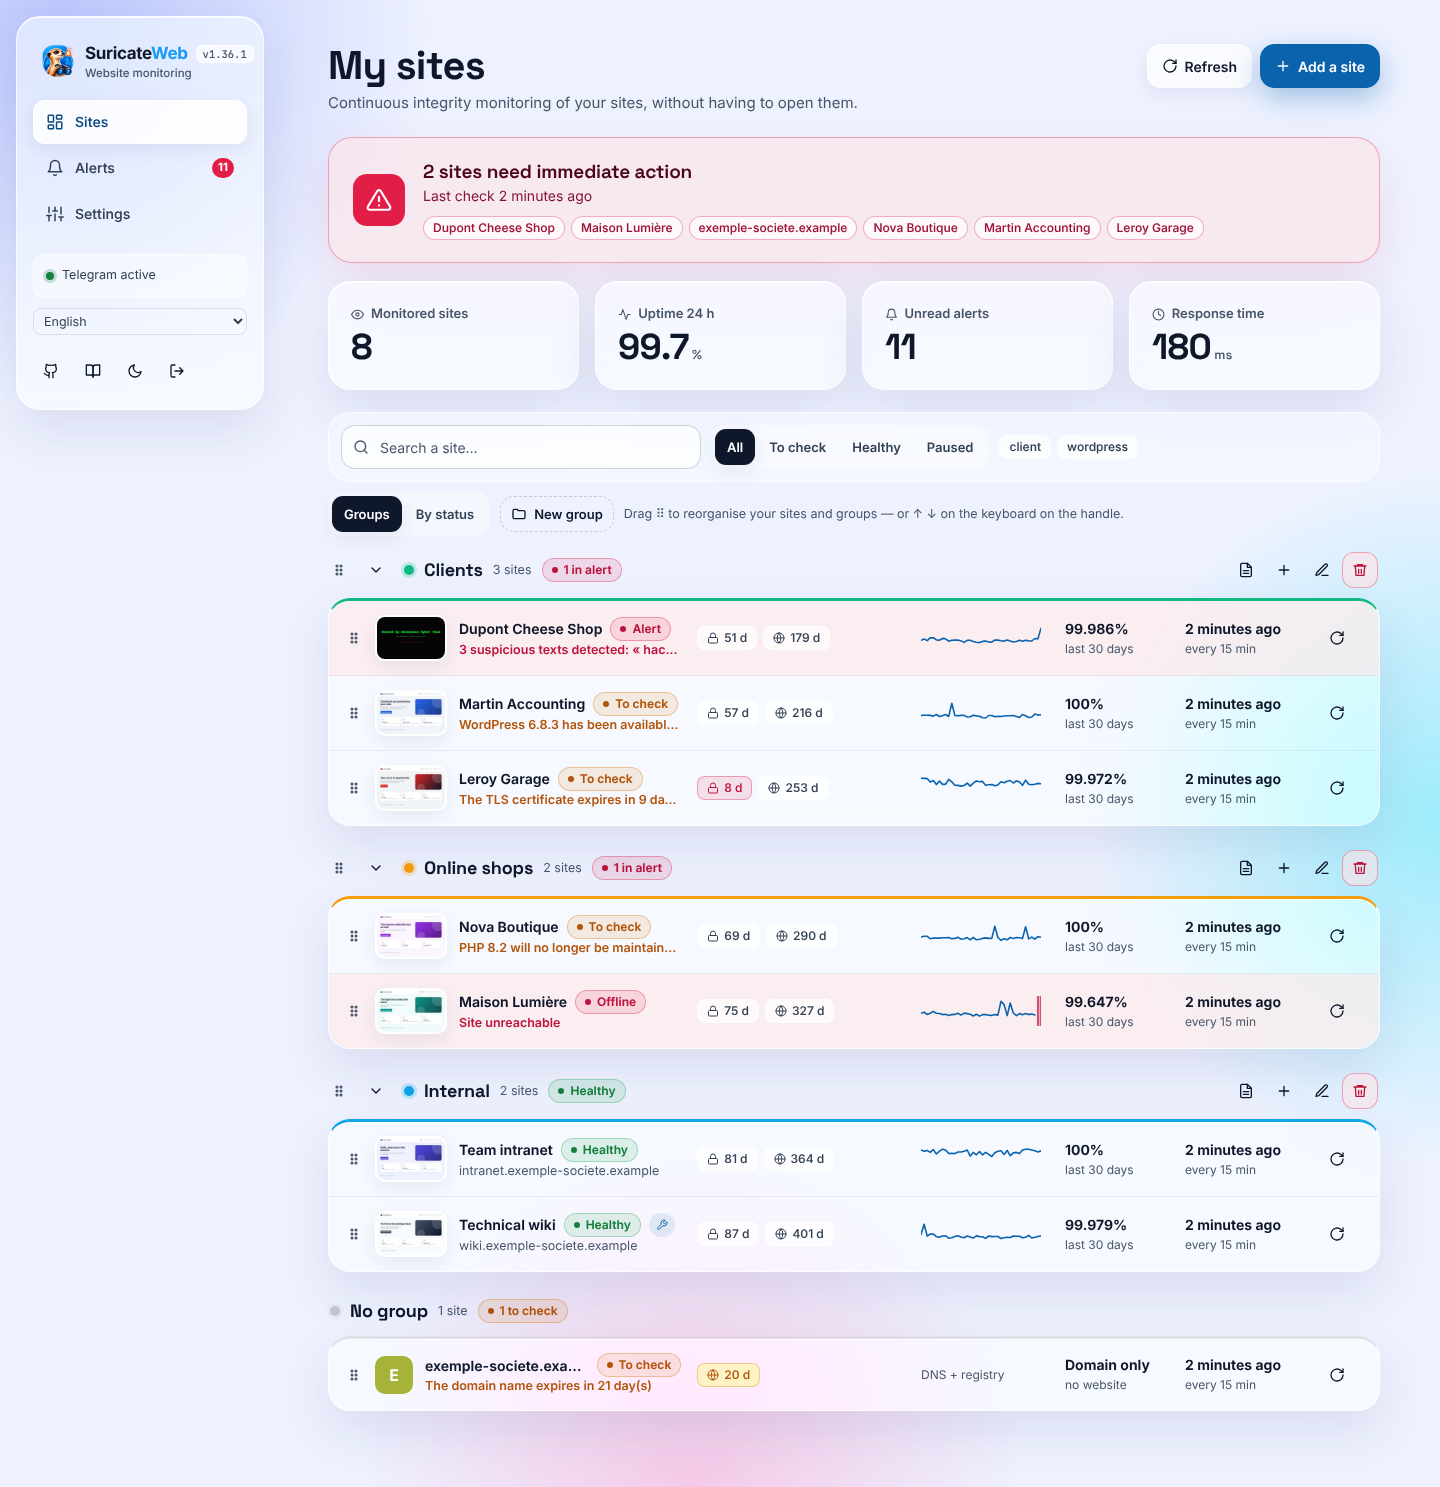
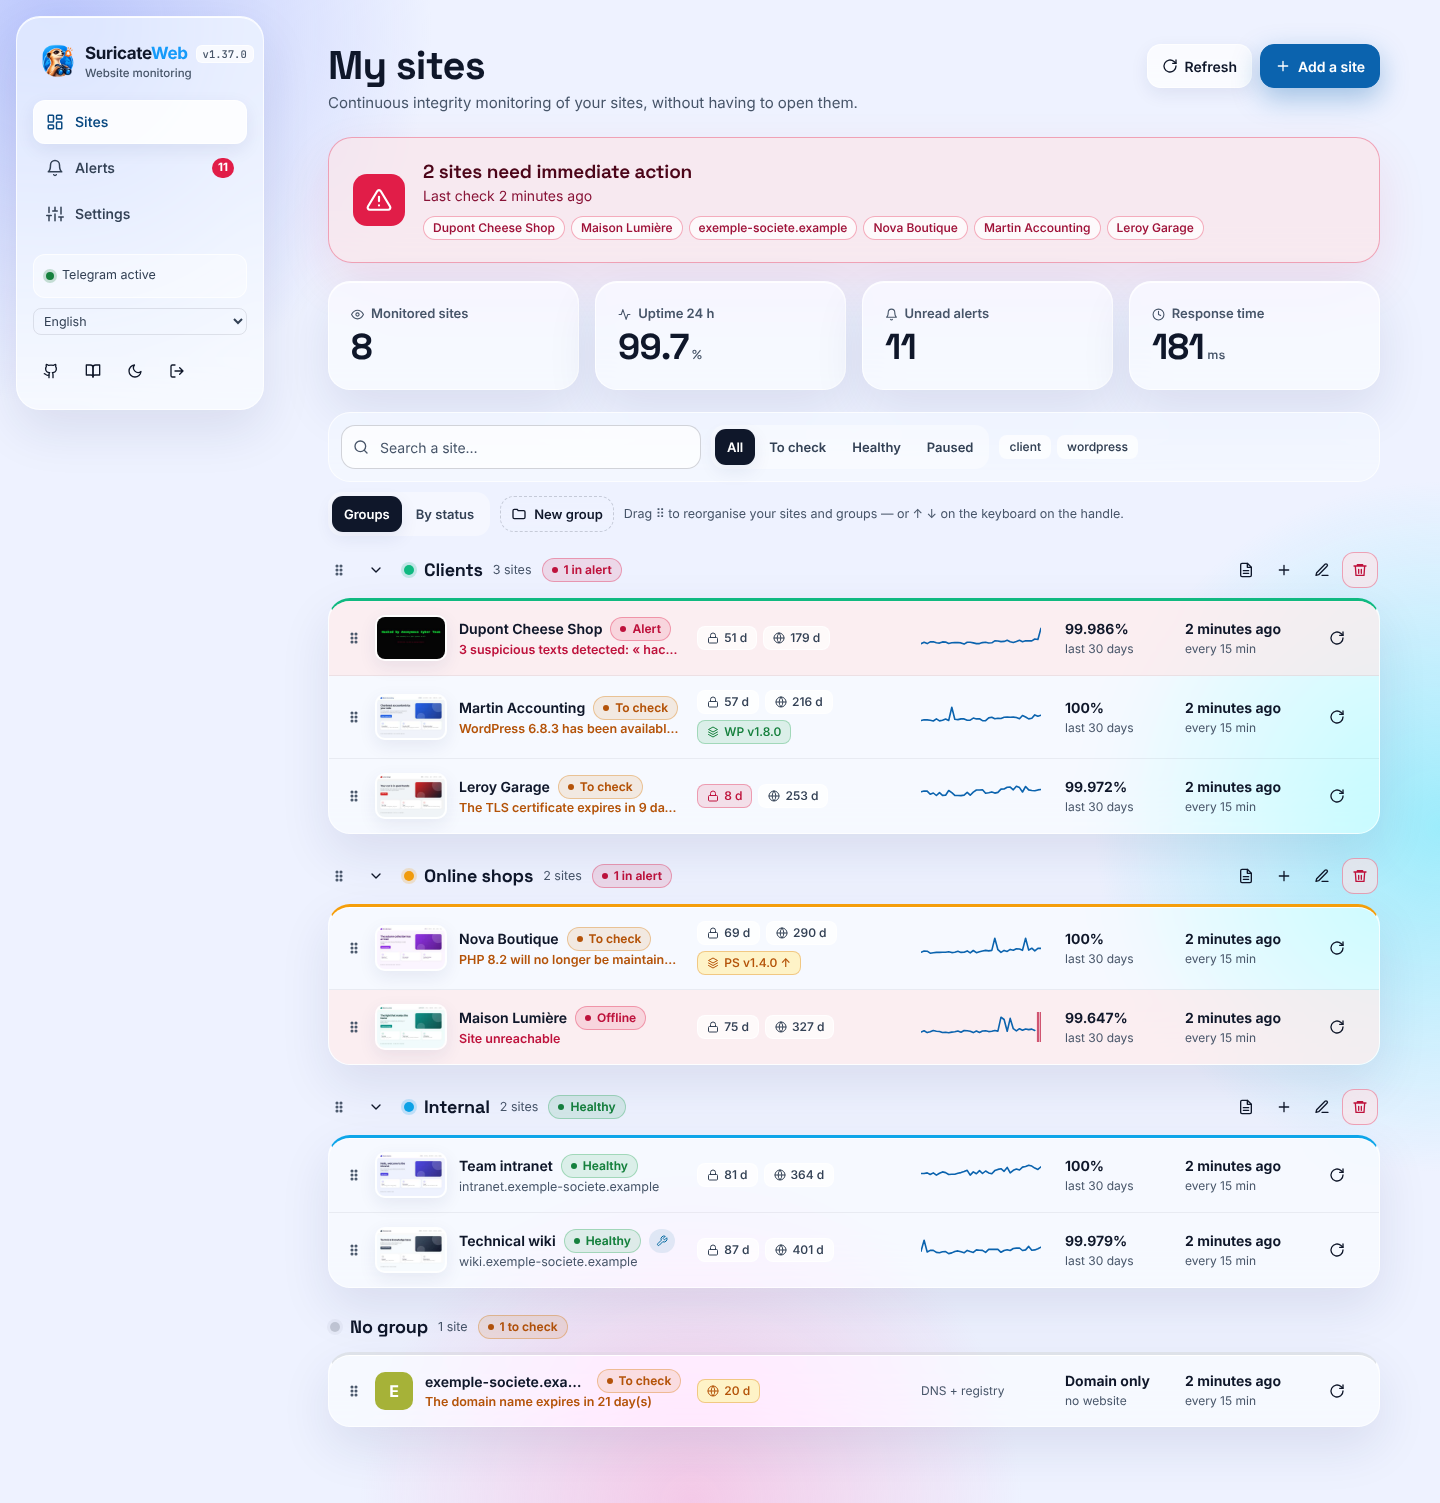
Liste des sites : indicateur « CMS connecté » avec la version du plugin installé
Pastille WP / PS (verte : connecté et à jour, orange : plugin à mettre à jour, rouge : relevé en échec, grise : en attente),
version lue dans le relevé (sans mettre à jour les plugins), comparée à celle livrée ; icône seule sur écran étroit ; API : cmsLink.

Claude-Session: https://claude.ai/code/session_01JAuNUWy4pp1o3tPaqFP6vj

diff --git a/public/app.js b/public/app.js
@@ -841,10 +841,45 @@ function signalChips(w) {
     const loud = w.incidents.some((i) => i.key === 'rdap_expiring' && !i.acked);
     chips.push(h('span', { class: `chip ${loud ? (d < 7 ? 'crit' : d < 30 ? 'warn' : '') : ''}`, title: tr('Nom de domaine valide jusqu\'au {dday}', { dday: dday(w.domainExpires) }) }, ic('globe'), d < 0 ? tr('expiré') : `${d} ${DAYU}`));
   }
+  const cms = cmsChip(w);
+  if (cms) chips.push(cms);
   return chips;
 }
 
 /** opts.handle : poignée de glisser-déposer · opts.chip : affiche le groupe (vue « Par état », où les groupes ne sont pas visibles). */
+/**
+ * Lien avec le CMS d'un site (WordPress « WP » / PrestaShop « PS »), pour la liste : le site est-il relié à son plugin, avec la version du plugin installé.
+ * Vert : connecté et à jour · orange : connecté mais le plugin installé est plus ancien que celui qu'on propose · rouge : le dernier relevé a échoué ·
+ * gris : aucun relevé pour le moment. null pour un site sans CMS.
+ */
+function cmsState(w) {
+  const l = w.cmsLink;
+  if (!l) return null;
+  const kind = l.type === 'prestashop' ? 'PrestaShop' : 'WordPress';
+  const abbr = l.type === 'prestashop' ? 'PS' : 'WP';
+  const v = l.version ? `v${l.version}` : '';
+  if (l.status === 'pending') {
+    return { tone: '', text: `${abbr} · ${tr('en attente')}`, title: tr('{kind} : aucun relevé du plugin pour le moment. Installez le plugin, collez le jeton dans ses réglages, puis actualisez.', { kind }) };
+  }
+  if (l.status === 'error') {
+    return { tone: 'crit', text: `${abbr}${v ? ` ${v}` : ''} · ${tr('non joint')}`, title: tr('{kind} : le dernier relevé a échoué ({error}).', { kind, error: l.error || tr('erreur inconnue') }) + (v ? ' ' + tr('Dernière version du plugin connue : {version}.', { version: l.version }) : '') };
+  }
+  if (l.outdated) {
+    return { tone: 'warn', text: `${abbr} ${v} ↑`, title: tr('{kind} connecté. Plugin {version} installé, {latest} disponible : mettez-le à jour (fiche du site › Mises à jour).', { kind, version: l.version, latest: l.latest }) };
+  }
+  return { tone: 'ok', text: v ? `${abbr} ${v}` : abbr, title: v ? tr('{kind} connecté · plugin {version} (à jour) · relevé {rel}', { kind, version: l.version, rel: rel(l.checkedAt) }) : tr('{kind} connecté · version du plugin inconnue (plugin très ancien : mettez-le à jour) · relevé {rel}', { kind, rel: rel(l.checkedAt) }) };
+}
+/** Pastille complète, dans la colonne des indicateurs (certificat, domaine). */
+function cmsChip(w) {
+  const st = cmsState(w);
+  return st ? h('span', { class: `chip cms-chip ${st.tone}`, title: st.title, 'aria-label': st.title }, ic('layers'), st.text) : null;
+}
+/** Version compacte (icône seule) dans la ligne du nom : seulement là où la colonne des indicateurs est masquée (écran étroit). */
+function cmsDot(w) {
+  const st = cmsState(w);
+  return st ? h('span', { class: `pill ${st.tone || 'mute'} icon-only cms-narrow`, title: st.title, 'aria-label': st.title }, ic('layers')) : null;
+}
+
 function siteRow(w, opts = {}) {
   const visible = w.incidents.filter((i) => !i.acked);
   const top = visible.find((i) => i.severity === 'critical') || visible[0];
@@ -860,7 +895,7 @@ function siteRow(w, opts = {}) {
   // « e.target === e.currentTarget » : Entrée sur un bouton de la ligne (poignée, vérifier) ne doit pas ouvrir le site.
   return h('div', { class: `site ${w.enabled ? '' : 'dim'}`, 'data-id': w.id, tabindex: 0, role: 'link', onclick: () => (location.hash = `#/sites/${w.id}`), onkeydown: (e) => e.target === e.currentTarget && e.key === 'Enter' && (location.hash = `#/sites/${w.id}`) },
     h('div', { class: 'id' }, opts.handle ? handleBtn('site', w.id, tr('Déplacer « {name} »', { name: w.name })) : null, w.shot ? h('img', { class: 'thumb', src: shotUrl(w.shot, true), loading: 'lazy', alt: '', title: tr('Capture {rel}', { rel: rel(w.shot.ts) }) }) : avatar(w.name), h('div', { class: 't' },
-      h('div', { class: 'name' }, h('span', { class: 'n' }, w.name), statusPill(w), w.maintenanceUntil ? maintPill(w, true) : null, grp ? h('span', { class: 'gchip', style: `--gc:${grp.color}`, title: tr('Groupe « {name} »', { name: grp.name }) }, h('span', { class: 'grp-dot' }), grp.name) : null),
+      h('div', { class: 'name' }, h('span', { class: 'n' }, w.name), statusPill(w), cmsDot(w), w.maintenanceUntil ? maintPill(w, true) : null, grp ? h('span', { class: 'gchip', style: `--gc:${grp.color}`, title: tr('Groupe « {name} »', { name: grp.name }) }, h('span', { class: 'grp-dot' }), grp.name) : null),
       top ? h('div', { class: `issue ${top.severity === 'warning' ? 'warn' : ''}` }, top.title) : h('div', { class: 'url' }, host(w.url) + (w.tags.length ? '  ·  ' + w.tags.join(', ') : '')))),
     h('div', { class: 'sigs' }, ...signalChips(w)),
     h('div', { class: 'spark-col' }, w.mode === 'domain' ? h('div', { class: 'spark-empty' }, tr('DNS + registre')) : spark(w.spark)),

diff --git a/public/style.css b/public/style.css
@@ -253,6 +253,8 @@ textarea.input { height: auto; min-height: 84px; padding: 10px 12px; resize: ver
 .id .issue { color: var(--crit); font-size: 12.5px; font-weight: 550; overflow: hidden; text-overflow: ellipsis; white-space: nowrap; }
 .id .issue.warn { color: var(--warn); }
 .sigs { display: flex; gap: 6px; flex-wrap: wrap; }
+/* Pastille CMS compacte de la ligne du nom : seulement quand la colonne des indicateurs est masquée (≤ 1100 px), comme dans la règle ci-dessous. */
+.cms-narrow { display: none; }
 .spark { display: block; width: 120px; height: 30px; }
 /* Texte à la place de la courbe : centré verticalement même quand il passe sur 2 lignes (2 × 15 px = la hauteur de 30 px). */
 .spark-empty { display: flex; align-items: center; width: 120px; height: 30px; font-size: 12px; line-height: 15px; color: var(--muted); }
@@ -709,6 +711,7 @@ textarea.input { height: auto; }
   .ov-top .kpis { grid-template-columns: repeat(4, 1fr); }
   .site { grid-template-columns: minmax(200px, 1.6fr) 120px 100px 40px; }
   .site .sigs, .site .col-metric { display: none; }
+  .cms-narrow { display: inline-flex; }
 }
 @media (max-width: 860px) {
   .shell { grid-template-columns: 1fr; padding: 0; }

diff --git a/src/routes/shared.js b/src/routes/shared.js
@@ -5,7 +5,7 @@ import { getExtensions } from '../extensions.js';
 import { randomBytes } from 'node:crypto';
 import { settingsFor, statusTokenInUse, getWatch, updateWatch, normalizeConfig, defaultConfig, DEFAULT_KEYWORDS, uptimeBetween, DAY_MS } from '../db.js';
 import { isRunning } from '../scheduler.js';
-import { cmsConfigError } from '../cms.js';
+import { cmsConfigError, cmsLinkOf } from '../cms.js';
 import { resolvePage } from '../pages.js';
 import { engine, browserLabel } from '../screenshot.js';
 import { parseHtml, selectAll } from '../html.js';
@@ -138,6 +138,8 @@ export async function summarize(w, ctx) {
     uptime30: domainOnly ? null : (await uptimeBetween(w, now - 30 * DAY_MS, now, now)).uptime,
     tlsExpires: w.state.tls?.expires || null, domainExpires: w.state.rdap?.expires || null,
     maintenanceUntil: ctx.maint?.get(w.id)?.end ?? null,
+    // Lien avec le CMS (WordPress / PrestaShop) : connecté ou non, version du plugin installé, mise à jour du plugin disponible ; null sans CMS.
+    cmsLink: (() => { const l = cmsLinkOf(w); return l ? { ...l, error: l.error ? retranslate(l.error) : null } : null; })(),
   };
 }
 

diff --git a/scripts/docs/demo-data.js b/scripts/docs/demo-data.js
@@ -66,6 +66,7 @@ const CMS_REPORTS = {
       item('Akismet Anti-spam', 'akismet', '5.3.5'),
       item('Redirection', 'redirection', '5.5.0'),
       item('Hello Dolly', 'hello-dolly', '1.7.2', null, { active: false }),
+      item('SuricateWeb', 'suricateweb', '1.8.0'), // le plugin lui-même, à jour : pastille verte « WP v1.8.0 » dans la liste des sites
     ],
     themes: [
       item(T('Cabinet Martin (thème enfant)', 'Martin Accounting (child theme)'), 'cabinet-martin-child', '2.4.0'),
@@ -99,6 +100,7 @@ const CMS_REPORTS = {
       item(T('Paiement par chèque', 'Pay by check'), 'ps_checkpayment', '2.0.2'),
       item(T('Export du catalogue (sur mesure)', 'Catalog export (custom)'), 'nova_feed', '1.4', null, { known: false }),
       item(T('Transporteur local', 'Local carrier'), 'novashipping', '0.9.3', null, { known: false, active: false }),
+      item('SuricateWeb', 'suricateweb', '1.4.0'), // un plugin plus ancien que celui livré : pastille orange « PS v1.4.0 ↑ »
     ],
     themes: [
       item('Classic', 'classic', '2.0.3', '2.1.0', { active: false, age: 6 }),

diff --git a/README.md b/README.md
@@ -362,6 +362,21 @@ Pour un site WordPress ou PrestaShop, SuricateWeb ajoute l'onglet **Mises à jou
 - Une **pastille** sur l'onglet donne le nombre de mises à jour disponibles (noyau, extensions et thèmes réunis).
 - Si un relevé échoue (plugin désactivé, jeton refusé, site en panne…), le tableau reste celui du **dernier relevé réussi**, avec le message d'erreur, et SuricateWeb réessaie plus tôt que d'habitude (au plus 30 minutes plus tard).
 
+### Dans la liste des sites : le CMS est-il connecté ?
+
+Chaque site WordPress ou PrestaShop porte une **pastille** dans la liste (colonne des indicateurs, à côté du certificat et du domaine) : **WP** ou **PS**, avec la **version du plugin installé** sur le site.
+
+| Pastille | Signification |
+|---|---|
+| **WP v1.8.0** (verte) | connecté : le dernier relevé a réussi, et le plugin installé est à jour |
+| **PS v1.4.0 ↑** (orange) | connecté, mais le plugin installé est **plus ancien** que celui que SuricateWeb propose en téléchargement : mettez-le à jour |
+| **WP v1.8.0 · non joint** (rouge) | le dernier relevé a échoué (jeton refusé, site injoignable…) ; la dernière version connue reste affichée, et l'infobulle donne l'erreur |
+| **WP · en attente** (grise) | aucun relevé pour le moment : installez le plugin, collez le jeton, puis **Actualiser** |
+
+Sans pastille : le site n'a pas de CMS configuré (ou c'est un « Domaine seul »). L'infobulle détaille l'état et la date du relevé ; sur écran étroit (≤ 1100 px), où la colonne des indicateurs est masquée, la pastille se réduit à une icône colorée dans la ligne du nom.
+
+La version du plugin est lue dans le relevé : annoncée par le plugin, sinon dans la ligne qu'il occupe lui-même dans la liste des extensions, donc **sans mettre le plugin à jour**. Un plugin très ancien qui n'y figure pas est indiqué « connecté, version inconnue », jamais « à jour » par défaut. L'API (`GET /api/watches`) porte `cmsLink` : `{ type, status, version, latest, outdated, checkedAt, error }`.
+
 ### Mise en place
 
 Le relevé se fait **depuis le site**, là où ces informations existent : un petit plugin, installé sur le site, ne répond qu'à SuricateWeb. Il n'envoie rien de lui-même.
